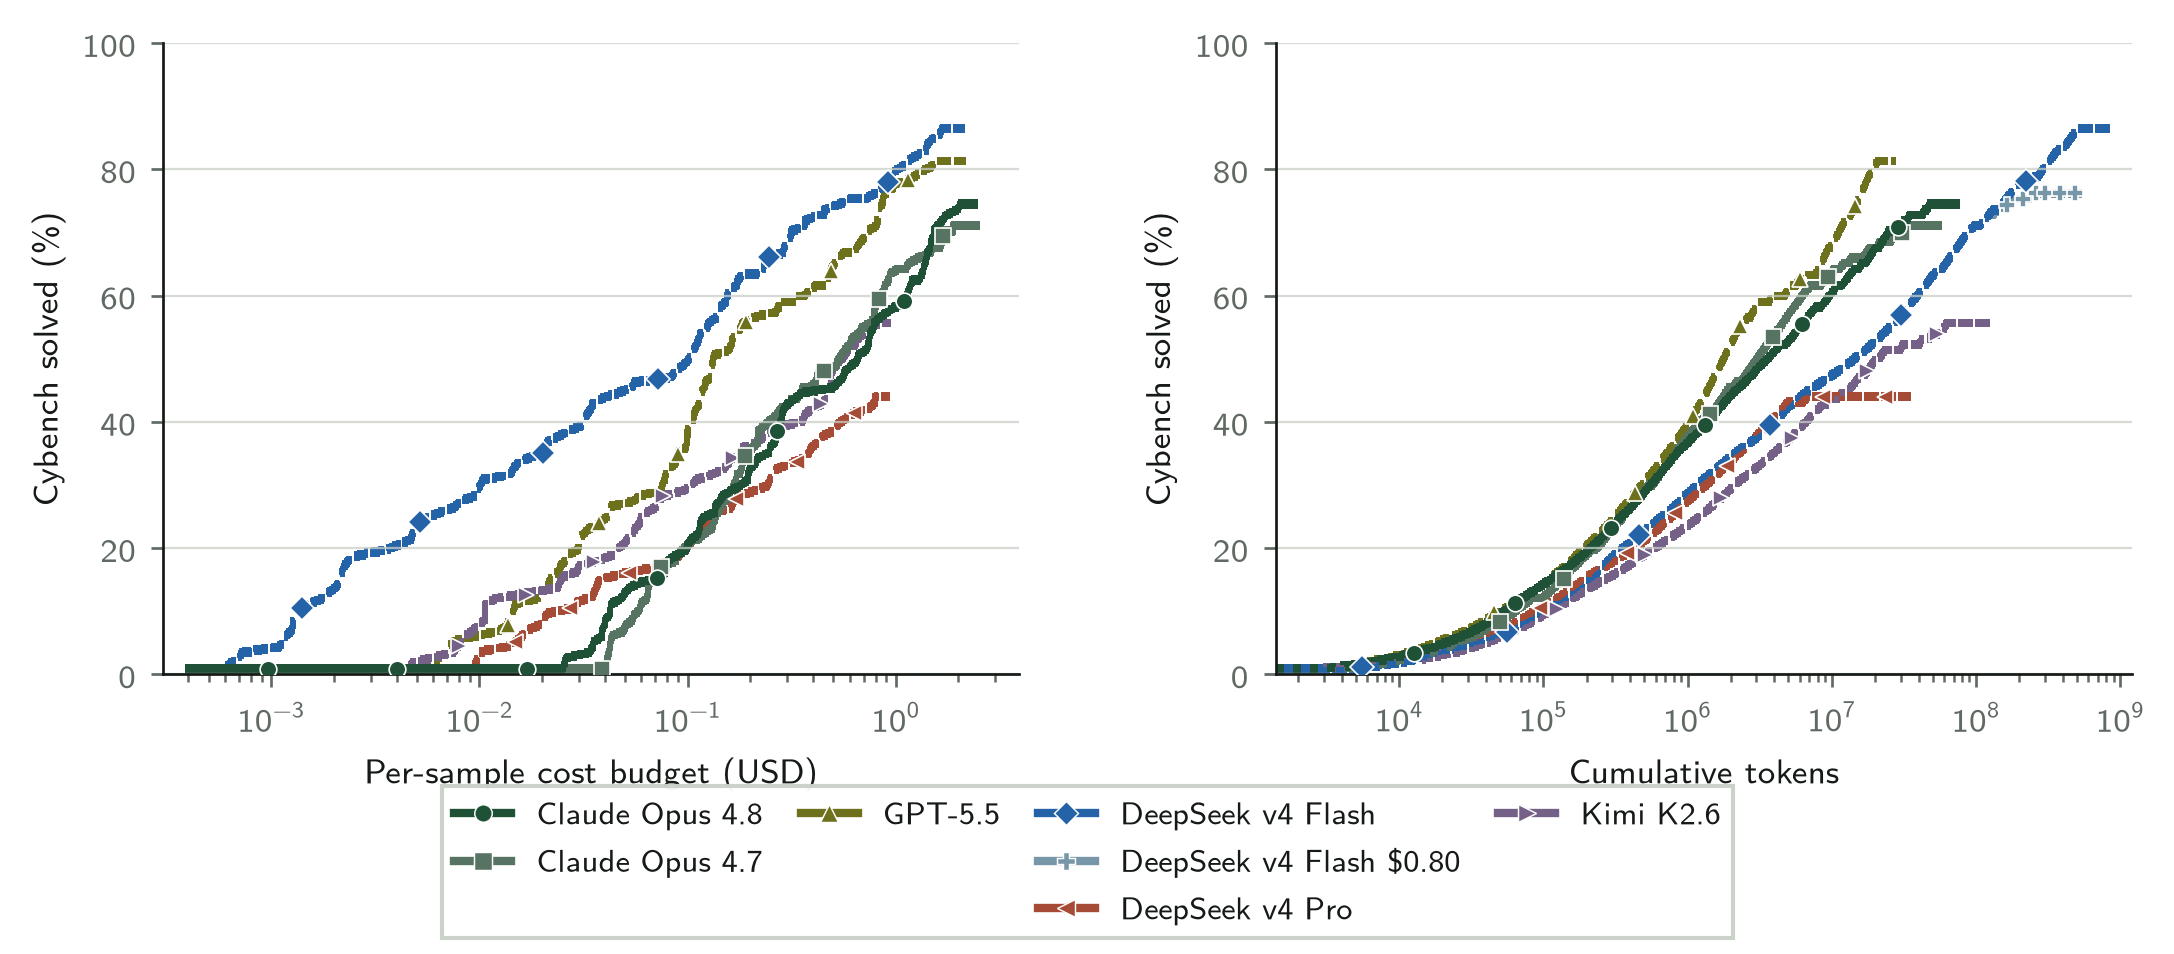
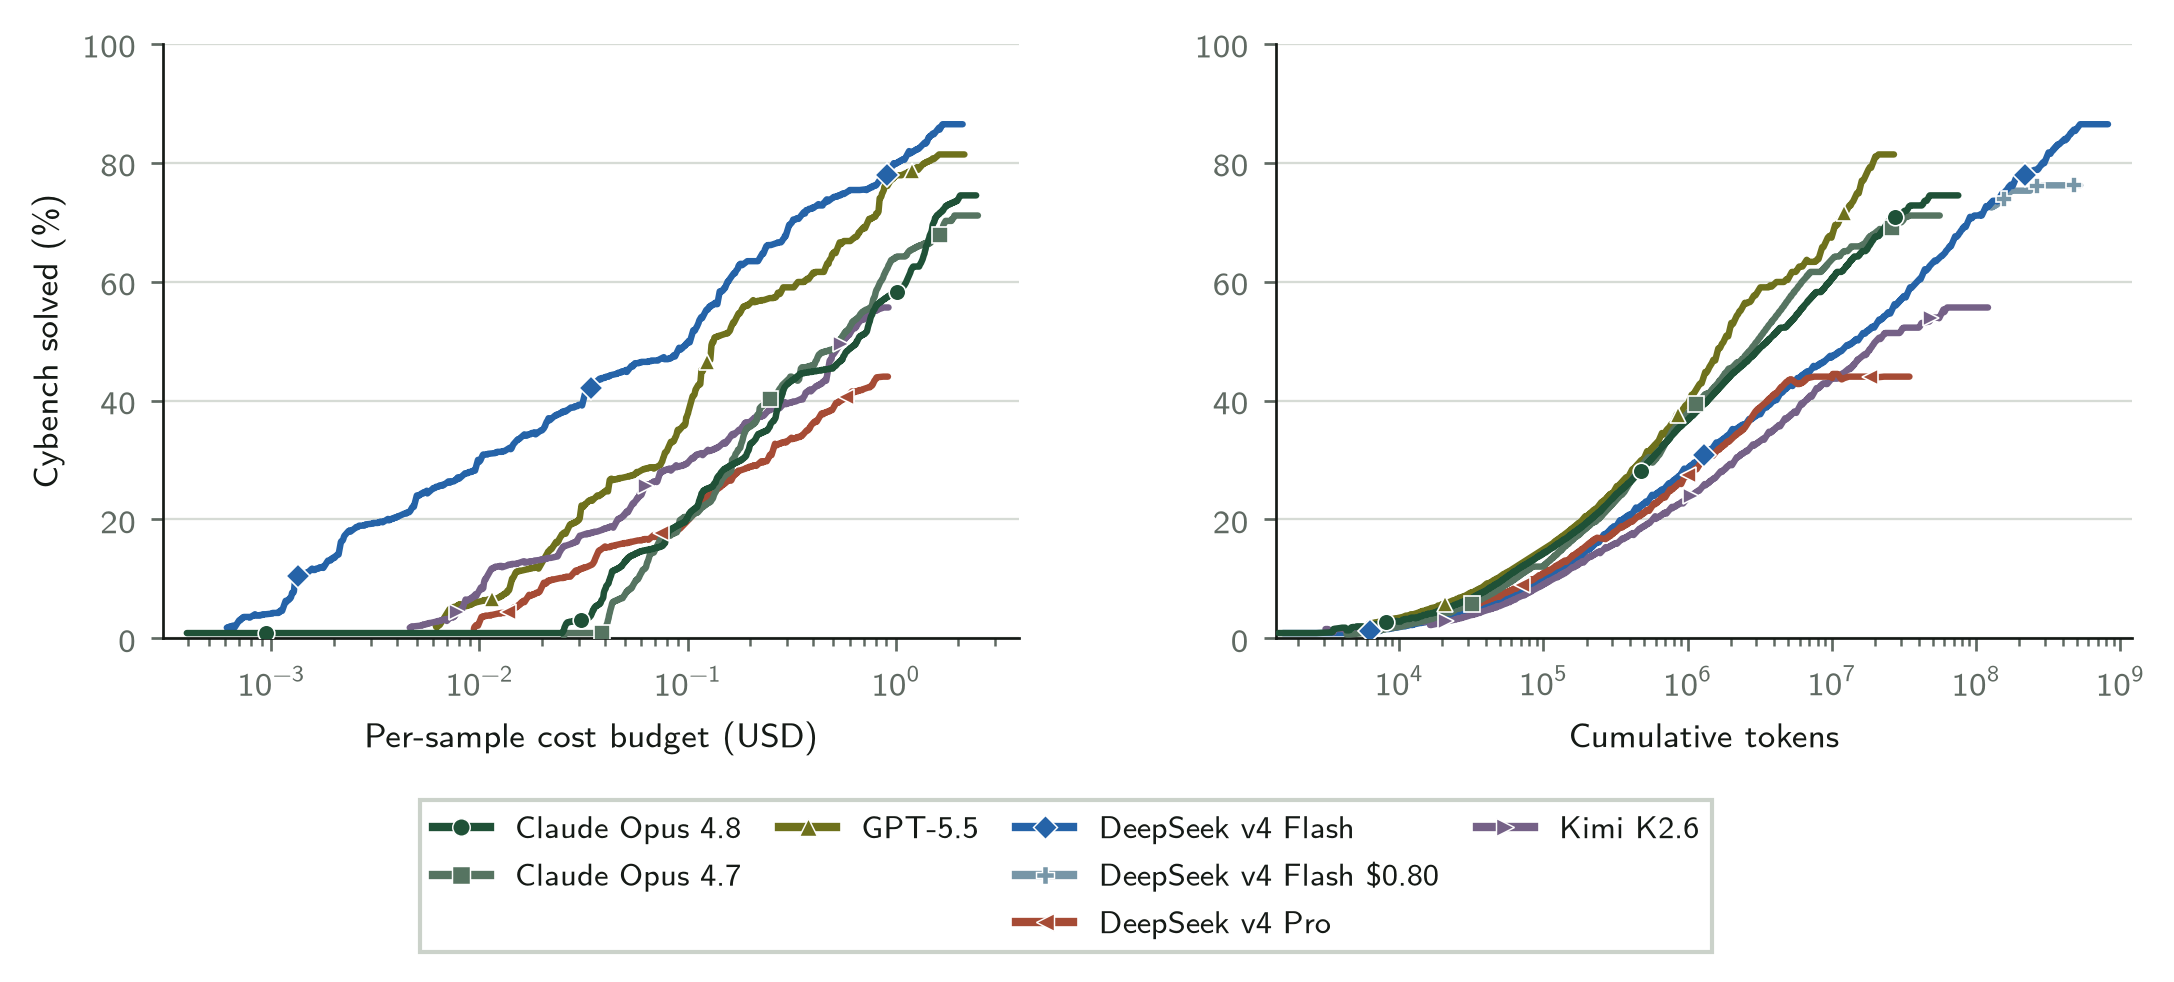
Improve Figure 4 readability

diff --git a/scripts/generate_charts.py b/scripts/generate_charts.py
@@ -138,7 +138,7 @@ def marker_points(x, y, count=6):
     return np.array(points).T
 
 
-def scaling_figure(name, panels, labels, figsize=(7.25, 3.05), *, headline=False):
+def scaling_figure(name, panels, labels, figsize=(7.25, 3.05), *, headline=False, clean=False):
     fig, axes = plt.subplots(1, 2, figsize=figsize)
     for ax, p in zip(axes, panels):
         cloud = digitized(name, p["crop"], p["series"])
@@ -173,14 +173,14 @@ def scaling_figure(name, panels, labels, figsize=(7.25, 3.05), *, headline=False
         series.extend((key, np.asarray(values["x"]), np.asarray(values["y"]))
                       for key, values in p.get("extra", {}).items())
         for key, x, y in series:
-            if headline:
+            if headline or clean:
                 # Collapse the recovered line thickness to its centerline for a
-                # crisp headline chart without changing the digitized geometry.
+                # crisp chart without changing the digitized geometry.
                 ux, inverse = np.unique(x, return_inverse=True)
                 uy = np.array([np.median(y[inverse == i]) for i in range(len(ux))])
-                ax.plot(ux, uy, color=COLORS[key], linewidth=2.0,
-                        linestyle=HEADLINE_LINESTYLES[key], solid_capstyle="round",
-                        solid_joinstyle="round", zorder=3)
+                ax.plot(ux, uy, color=COLORS[key], linewidth=2.0 if headline else 1.55,
+                        linestyle=HEADLINE_LINESTYLES[key] if headline else "-",
+                        solid_capstyle="round", solid_joinstyle="round", zorder=3)
                 mx, my = marker_points(ux, uy, 3)
             else:
                 ax.scatter(x, y, s=.62, marker="s", linewidths=0,
@@ -216,10 +216,11 @@ def scaling_figure(name, panels, labels, figsize=(7.25, 3.05), *, headline=False
         fig.subplots_adjust(left=.085, right=.99, top=.98, bottom=.29, wspace=.28)
     else:
         legend_handles, legend_labels, columns, rows = family_legend(labels)
+        legend_position = {"bbox_to_anchor": (.5, -.03)} if clean else {}
         fig.legend(legend_handles, legend_labels, loc="lower center", ncol=columns,
                    handlelength=1.8, columnspacing=1.2, fontsize=7.6,
-                   **LEGEND_BOX)
-        bottom = {1: .22, 2: .25, 3: .29, 4: .34}[rows]
+                   **legend_position, **LEGEND_BOX)
+        bottom = .33 if clean else {1: .22, 2: .25, 3: .29, 4: .34}[rows]
         fig.subplots_adjust(left=.085, right=.99, top=.98, bottom=bottom, wspace=.30)
     finish(fig, name)
 
@@ -250,9 +251,9 @@ def cybench():
       ((63,47,1518,490),"Per-sample cost budget (USD)",(3.03e-4,3.91),None),
       ((1772,47,3194,490),"Cumulative tokens",(1.46e3,1.83e9),(1.4e3,1.2e9))]:
         panels.append(dict(crop=crop,series=dict(zip(labels,src)),xlabel=xlabel,
-                           ylabel="Cybench solved (%)",log=True,xlim=xlim,
+                           ylabel="Cybench solved (%)" if not panels else "",log=True,xlim=xlim,
                            **({"plot_xlim":plot_xlim} if plot_xlim else {})))
-    scaling_figure("cybench_scaling_panels",panels,labels)
+    scaling_figure("cybench_scaling_panels",panels,labels,clean=True)
 
 
 def bots():